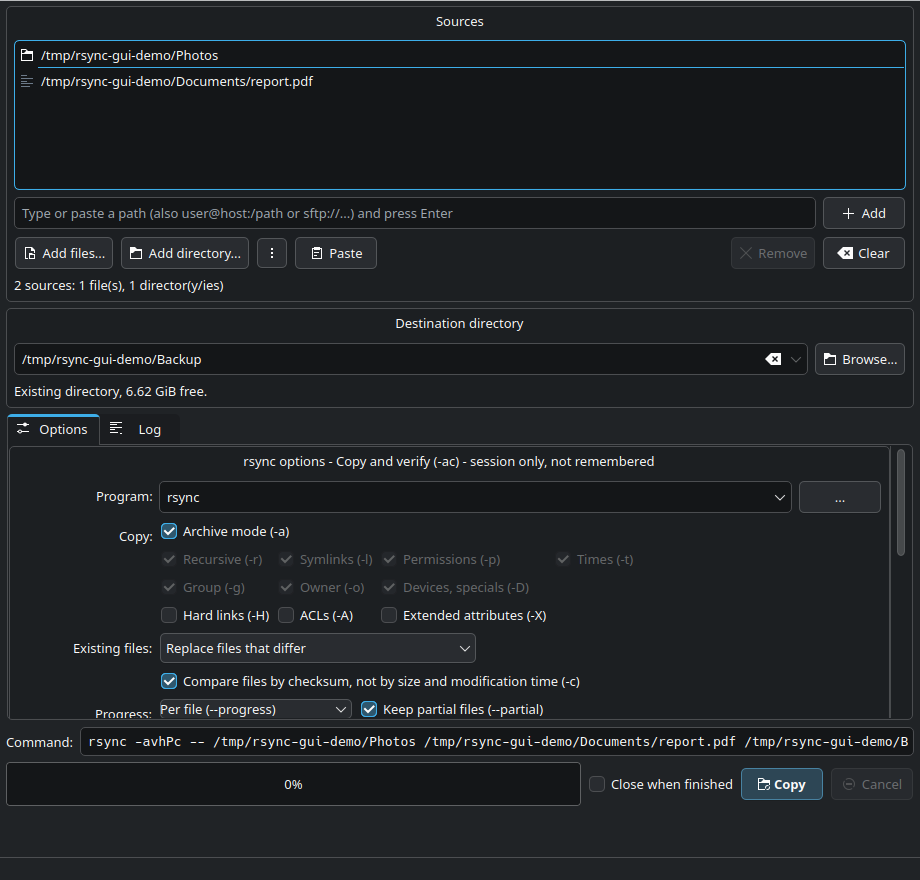
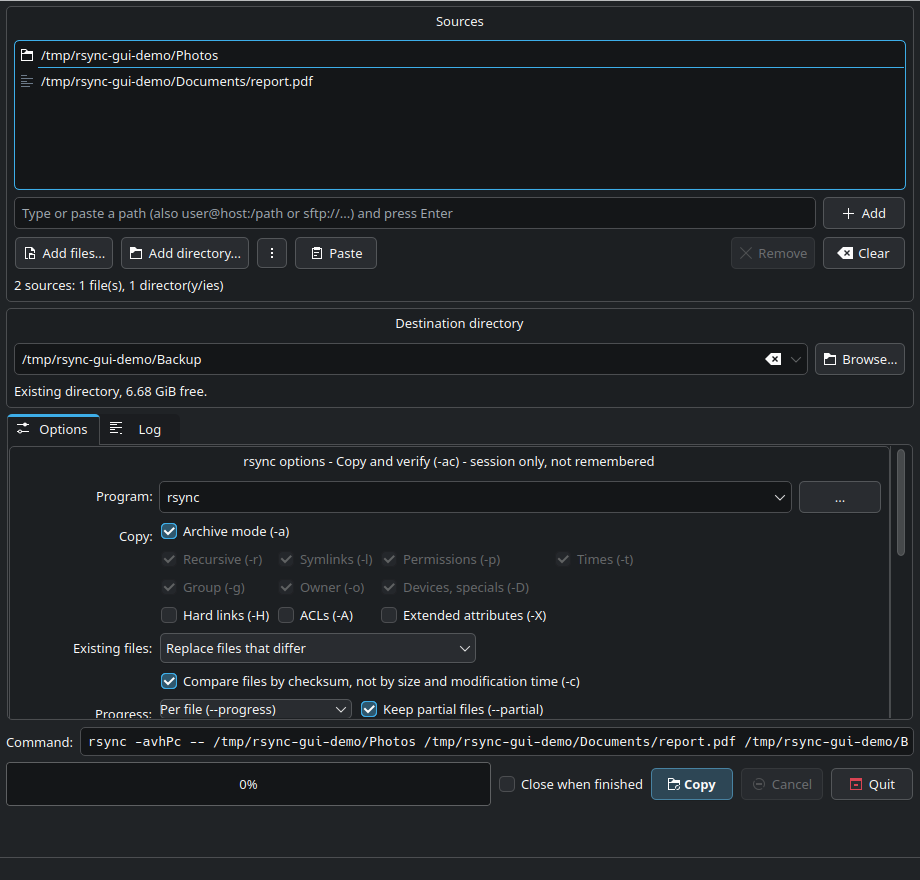
Log directory shown next to the log option; screenshots updated
Next to "Save the log to a file" the directory of the log files is
shown (~/.local/state/<app>/logs) as a link that opens it in the file
manager (created first, readable by the user only, if it does not
exist yet); it is greyed out while the log is not saved. The "Log
file:" line in the log shows the path with "~" too.

tools/make-screenshots.sh runs the application with a home directory
of its own (HOME, XDG_STATE_HOME): log files are not written to the
user's, and the window shows ~/... instead of temporary paths. The
screenshots of the main window and of the finished run are updated
(the log option and the Quit button).

Changed region(s): [[0.5478, 0.8591, 0.9739, 0.9205], [0.3043, 0.8898, 0.3348, 0.9205]]

diff --git a/src/mainwindow.cpp b/src/mainwindow.cpp
@@ -11,6 +11,7 @@
 #include <QClipboard>
 #include <QCloseEvent>
 #include <QComboBox>
+#include <QDesktopServices>
 #include <QDir>
 #include <QDragEnterEvent>
 #include <QDropEvent>
@@ -407,8 +408,24 @@ void MainWindow::buildUi()
     m_logToFileCheck = new QCheckBox(tr("Save the log to a file"), logPage);
     m_logToFileCheck->setToolTip(tr("Write the log of each run to a file in %1 (readable by you only).")
                                      .arg(RunLog::defaultDirectory(QStringLiteral("rsync-gui"))));
+    // The directory of the log files next to the checkbox - a link that opens it in the file manager.
+    const QString logDirectory = RunLog::defaultDirectory(QStringLiteral("rsync-gui"));
+    auto *logDirectoryLabel = new QLabel(QStringLiteral("<a href=\"%1\">%2</a>")
+                                             .arg(QUrl::fromLocalFile(logDirectory).toString().toHtmlEscaped(),
+                                                  RunLog::displayDirectory(logDirectory).toHtmlEscaped()),
+                                         m_logToFileCheck->parentWidget());
+    logDirectoryLabel->setTextFormat(Qt::RichText);
+    logDirectoryLabel->setToolTip(tr("Open the directory of the log files (created if it does not exist yet)."));
+    connect(logDirectoryLabel, &QLabel::linkActivated, this, [this, logDirectory] {
+        if (!RunLog::makeDirectory(logDirectory) || !QDesktopServices::openUrl(QUrl::fromLocalFile(logDirectory)))
+            appendLog(RsyncJob::LogLevel::Warning, tr("Cannot open %1").arg(logDirectory));
+    });
+    // Greyed out while the log is not saved.
+    logDirectoryLabel->setEnabled(m_logToFileCheck->isChecked());
+    connect(m_logToFileCheck, &QCheckBox::toggled, logDirectoryLabel, &QWidget::setEnabled);
     auto *logButtons = new QHBoxLayout;
     logButtons->addWidget(m_logToFileCheck);
+    logButtons->addWidget(logDirectoryLabel);
     logButtons->addStretch(1);
     logButtons->addWidget(clearLog);
     logLayout->addWidget(m_log, 1);
@@ -1279,7 +1296,7 @@ void MainWindow::startCopy()
                    tr("=== Start: %1 source(s) to %2 ===").arg(sources().size()).arg(LocalPath::display(dest.toString())),
                    true);
     if (m_runLog.isOpen())
-        appendLog(RsyncJob::LogLevel::Info, tr("Log file: %1").arg(m_runLog.path()));
+        appendLog(RsyncJob::LogLevel::Info, tr("Log file: %1").arg(RunLog::displayDirectory(m_runLog.path())));
     else if (options.logToFile)
         appendLog(RsyncJob::LogLevel::Warning, tr("The log is not saved: %1").arg(logFileError));
     if (options.modifyWindow > 0) {

diff --git a/tests/tst_rsynccore.cpp b/tests/tst_rsynccore.cpp
@@ -3,6 +3,7 @@
 #include "location.h"
 #include "rsyncjob.h"
 #include "rsyncoptions.h"
+#include "runlog.h"
 #include "speedhistory.h"
 
 #include <QDir>
@@ -257,6 +258,7 @@ private slots:
     void localTotalSize();
     void copyNonUtf8Names();
     void jsonRoundTrip();
+    void runLogDirectory();
     void jsonMissingKeysKeepBase();
     void jsonRejectsInvalidValues_data();
     void jsonRejectsInvalidValues();
@@ -1192,6 +1194,25 @@ void TestRsyncCore::missingProgramAborts()
     QVERIFY(runJob(job));
     QVERIFY(job.summary().aborted);
     QVERIFY(!job.summary().ok());
+}
+
+void TestRsyncCore::runLogDirectory()
+{
+    QVERIFY(RunLog::defaultDirectory(QStringLiteral("rsync-gui")).endsWith(QStringLiteral("/rsync-gui/logs")));
+    const QString home = QDir::homePath();
+    QCOMPARE(RunLog::displayDirectory(home + QStringLiteral("/.local/state/rsync-gui/logs")),
+             QStringLiteral("~/.local/state/rsync-gui/logs"));
+    QCOMPARE(RunLog::displayDirectory(home + QStringLiteral("x/logs")), home + QStringLiteral("x/logs"));
+
+    QTemporaryDir tmp;
+    QVERIFY(tmp.isValid());
+    const QString dir = tmp.filePath(QStringLiteral("a/b/logs"));
+    QVERIFY(RunLog::makeDirectory(dir));
+    QCOMPARE(QFile::permissions(dir) & (QFileDevice::ReadGroup | QFileDevice::ReadOther), QFileDevice::Permissions());
+    RunLog log;
+    QString error;
+    QVERIFY2(log.open(dir, QDateTime(QDate(2026, 11, 14), QTime(12, 0)), &error), qPrintable(error));
+    QCOMPARE(log.path(), dir + QStringLiteral("/2026-11-14_12-00-00.log"));
 }
 
 void TestRsyncCore::jsonRoundTrip()

diff --git a/src/runlog.cpp b/src/runlog.cpp
@@ -9,15 +9,32 @@ QString RunLog::defaultDirectory(const QString &appName)
         + QStringLiteral("/logs");
 }
 
+QString RunLog::displayDirectory(const QString &directory)
+{
+    const QString home = QDir::homePath();
+    if (directory == home)
+        return QStringLiteral("~");
+    if (directory.startsWith(home + QLatin1Char('/')))
+        return QLatin1Char('~') + directory.mid(home.size());
+    return directory;
+}
+
+bool RunLog::makeDirectory(const QString &directory)
+{
+    if (!QDir().mkpath(directory))
+        return false;
+    QFile::setPermissions(directory, QFileDevice::ReadOwner | QFileDevice::WriteOwner | QFileDevice::ExeOwner);
+    return true;
+}
+
 bool RunLog::open(const QString &directory, const QDateTime &start, QString *error)
 {
     close();
-    if (!QDir().mkpath(directory)) {
+    if (!makeDirectory(directory)) {
         if (error)
             *error = QObject::tr("Cannot create the directory \"%1\".").arg(directory);
         return false;
     }
-    QFile::setPermissions(directory, QFileDevice::ReadOwner | QFileDevice::WriteOwner | QFileDevice::ExeOwner);
     const QString base = directory + QLatin1Char('/') + start.toString(QStringLiteral("yyyy-MM-dd_HH-mm-ss"));
     for (int n = 1; n < 1000; ++n) {
         const QString path = n == 1 ? base + QStringLiteral(".log") : QStringLiteral("%1_%2.log").arg(base).arg(n);

diff --git a/src/runlog.h b/src/runlog.h
@@ -12,6 +12,10 @@ class RunLog
 public:
     // <XDG_STATE_HOME, usually ~/.local/state>/<appName>/logs
     static QString defaultDirectory(const QString &appName);
+    // A directory or file for showing: the home directory as "~".
+    static QString displayDirectory(const QString &directory);
+    // Creates the directory (readable by the user only) if needed.
+    static bool makeDirectory(const QString &directory);
 
     bool open(const QString &directory, const QDateTime &start, QString *error = nullptr);
     bool isOpen() const { return m_file.isOpen(); }
